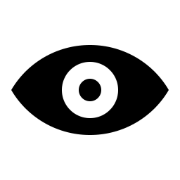
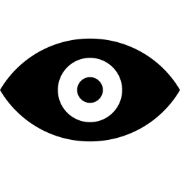
Bug fix

Changed region(s): [[0.0, 0.1944, 1.0, 0.8056], [0.3056, 0.3056, 0.6944, 0.6944], [0.4167, 0.4167, 0.5833, 0.5833]]

diff --git a/app/globals.css b/app/globals.css
@@ -38,8 +38,8 @@ button:focus-visible, a:focus-visible { outline: 2px solid #171717; outline-offs
 .card-image { width: 65px; height: 65px; flex: 0 0 65px; overflow: hidden; border-radius: 10px; position: relative; background: rgba(0, 0, 0, .04); }
 .card-image img { display: block; width: 100%; height: 100%; object-fit: cover; }
 .card-copy { min-width: 0; position: relative; }
-.card-source { display: block; font-size: 14px; line-height: 17.5px; }
-.card-title { display: block; font-size: 14px; line-height: 17.5px; color: rgba(0, 0, 0, .5); }
+.card-source { display: block; font-size: 14px; line-height: 17.5px; white-space: nowrap; overflow: hidden; text-overflow: ellipsis; }
+.card-title { display: -webkit-box; -webkit-box-orient: vertical; -webkit-line-clamp: 2; overflow: hidden; overflow-wrap: anywhere; font-size: 14px; line-height: 17.5px; color: rgba(0, 0, 0, .5); }
 /* The final ScrollTrigger needs half a card of travel beyond the last row. */
 .directory-sentinel { height: calc(var(--card-height) / 2); }
 .reading-area { flex: 1 1 auto; min-width: 0; padding: 8px; }
@@ -50,8 +50,6 @@ button:focus-visible, a:focus-visible { outline: 2px solid #171717; outline-offs
 .mobile-empty { display: none; }
 .reading-card { display: none; }
 .reading-card .card-copy { flex: 1; }
-.reading-card .card-source { white-space: nowrap; overflow: hidden; text-overflow: ellipsis; }
-.reading-card .card-title { display: -webkit-box; -webkit-box-orient: vertical; -webkit-line-clamp: 2; overflow: hidden; }
 @media (max-width: 768px) {
   body { font-size: 13.5px; letter-spacing: -.31px; }
   .article-nav { --card-height: 80px; }
